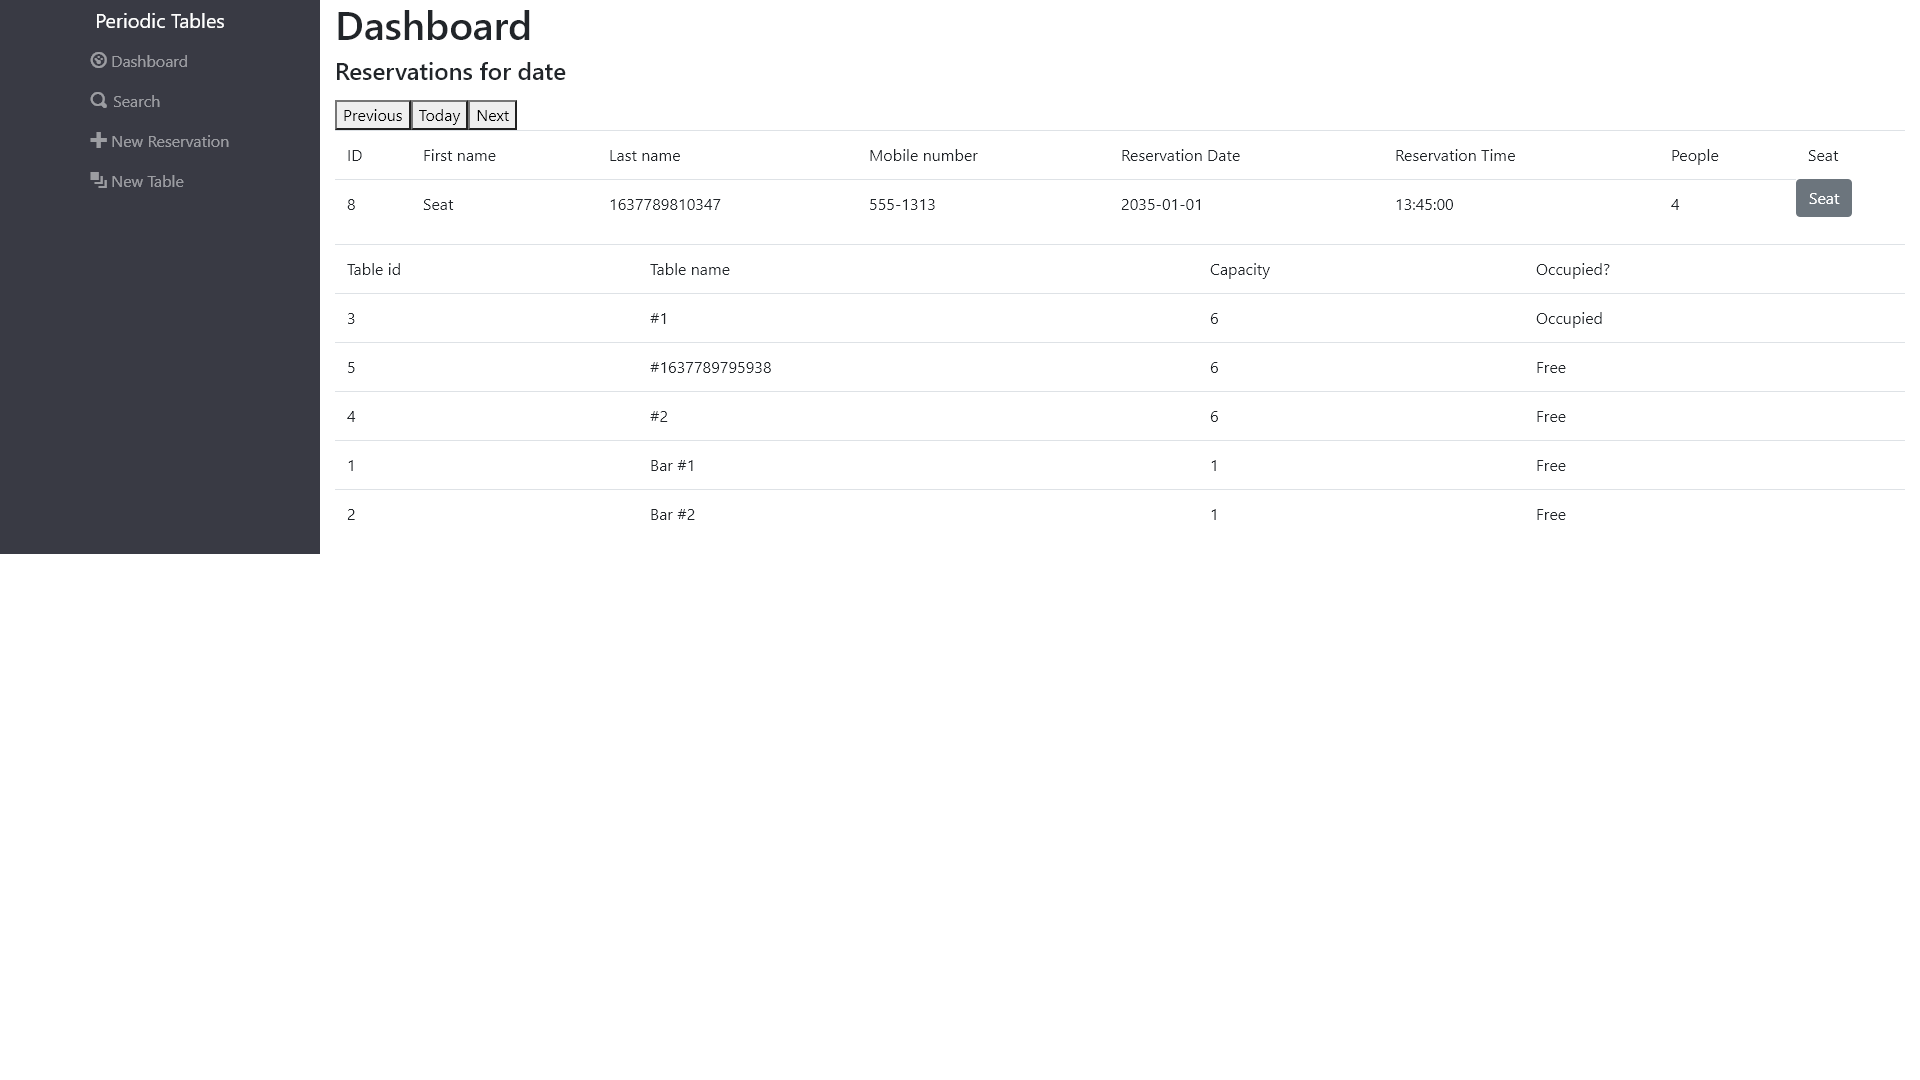
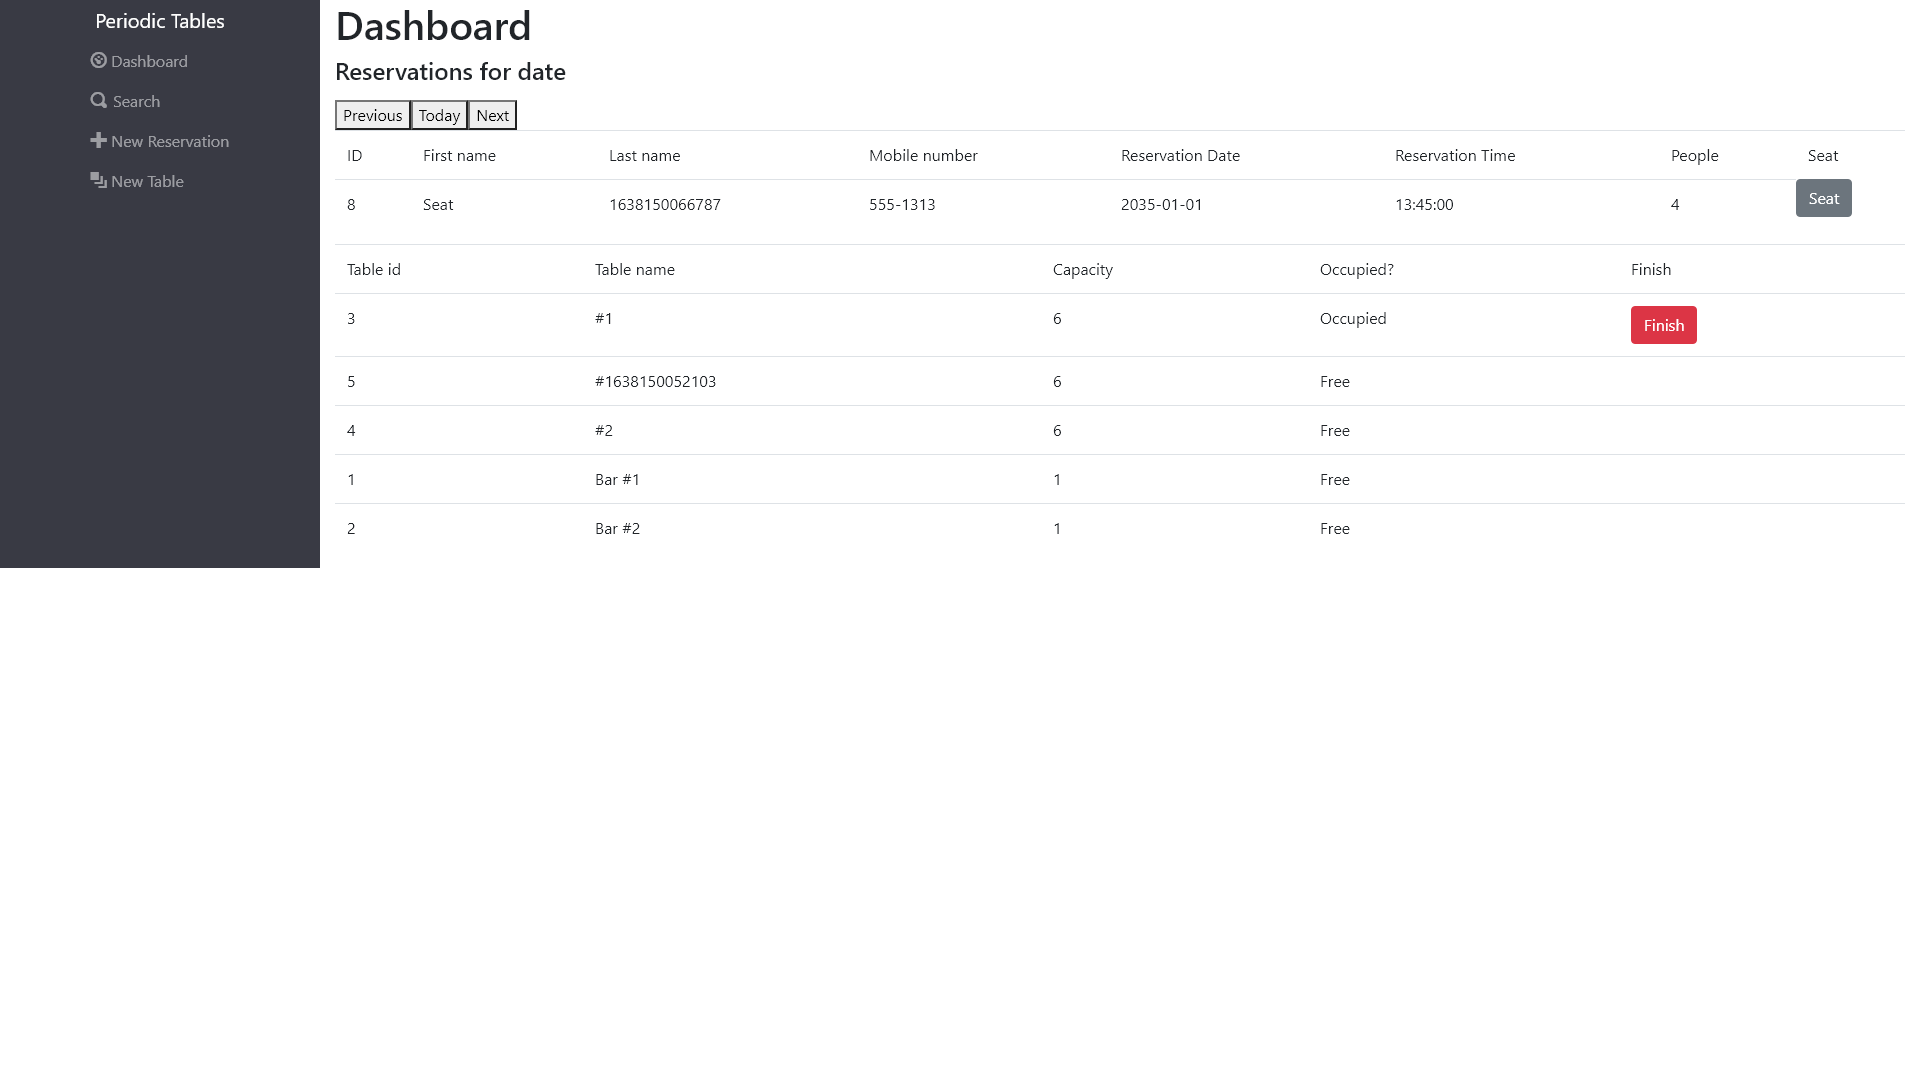
implemented user-story-05

diff --git a/front-end/src/dashboard/Dashboard.js b/front-end/src/dashboard/Dashboard.js
@@ -1,6 +1,6 @@
 import React, { useEffect, useState } from "react";
 import { Link } from 'react-router-dom';
-import { listReservations, listTables } from "../utils/api";
+import { deleteReservation, listReservations, listTables } from "../utils/api";
 import { next, previous, today } from '../utils/date-time'
 import ErrorAlert from "../layout/ErrorAlert";
 import ReservationList from "./ReservationList";
@@ -19,17 +19,35 @@ function Dashboard({ date }) {
   const [tablesError, setTablesError] = useState(null);
   // load the dashboard
   useEffect(loadDashboard, [date]);
+
   // get the list of reservations for the day and tables list
   function loadDashboard() {
-    const abortController = new AbortController();
+    const ac = new AbortController();
     setReservationsError(null);
-    listReservations({ date }, abortController.signal)
+    listReservations({ date }, ac.signal)
       .then(setReservations)
       .catch(setReservationsError);
-    listTables(abortController.signal)
-    .then(setTables)
-    .catch(setTablesError);
-    return () => abortController.abort();
+    listTables()
+      .then(setTables);
+    return () => ac.abort();
+  }
+
+  useEffect(loadTables, [setTables]);
+
+  function loadTables() {
+    const ac = new AbortController();
+    setTablesError(null);
+      listTables()
+        .then(setTables)
+        .catch(setTablesError);
+    return () => ac.abort();
+  }
+
+  function finish(table_id) {
+    const ac = new AbortController();
+    deleteReservation(table_id, ac.signal)
+    .then(loadDashboard)
+    .catch(setReservationsError);
   }
 
   return (
@@ -51,7 +69,7 @@ function Dashboard({ date }) {
         </Link>
       </nav>
       <ReservationList reservations={reservations} date={date}/>
-      <TablesList tables={tables} />
+      <TablesList tables={tables} finish={finish} />
     </main>
   );
 }

diff --git a/back-end/src/tables/tables.controller.js b/back-end/src/tables/tables.controller.js
@@ -86,6 +86,14 @@ async function validateUpdate(request, response, next) {
     next();
 }
 
+async function isNotOccupied(request, response, next) {
+    const table = response.locals.table;
+    if (!table.reservation_id) {
+        next({ status: 400, message: `Table is not occupied` });
+    }
+    next();
+}
+
 /* CRUDL functions */
 
 /**
@@ -136,6 +144,22 @@ async function update(request, response) {
 }
 
 /**
+ * Destroy function
+ *  sets reservations back to null 
+ * @param {request}
+ *  request from client
+ * @param {response}
+ *  response from the server  
+ * @returns {JSON}
+ *  a deleted status
+ */
+ async function destroy(request, response) {
+    const { table_id } = response.locals.table;
+    await tablesService.delete(table_id);
+    response.sendStatus(200);
+}
+
+/**
  * List function
  *  lists the tables in order of table name 
  * @param {request}
@@ -154,6 +178,7 @@ module.exports = {
     create: [createTableRequirements, asyncErrorBoundary(create)],
     read: [asyncErrorBoundary(tableExists), asyncErrorBoundary(read)],
     update: [asyncErrorBoundary(tableExists), asyncErrorBoundary(validateUpdate), asyncErrorBoundary(update)],
+    finish: [asyncErrorBoundary(tableExists), asyncErrorBoundary(isNotOccupied),asyncErrorBoundary(destroy)],
     list: [asyncErrorBoundary(list)],
 };
 

diff --git a/front-end/src/dashboard/Table.js b/front-end/src/dashboard/Table.js
@@ -1,3 +1,6 @@
+import { deleteReservation, listTables } from "../utils/api";
+import { useHistory } from 'react-router-dom';
+
 /**
  * 
  * @param {reservation}
@@ -5,13 +8,33 @@
  * @returns 
  *  a row with the reservation data
  */
- function Table({ table }) {
+ function Table({ table, finish }) {
+    const history = useHistory();
+    async function handleFinish(event) {
+        const result = window.confirm(`Is this table ready to seat new guests? This cannot be undone`);
+        if (result) {
+            finish(table.table_id);
+            history.push('/');
+        }
+    }
+
     return (
         <tr>
             <td>{table.table_id}</td>
             <td>{table.table_name}</td>
             <td>{table.capacity}</td>
             <td data-table-id-status={table.table_id}>{table.reservation_id ? 'Occupied' : 'Free'}</td>
+            <td>{table.reservation_id ? 
+                (
+                    <button data-table-id-finish={table.table_id} 
+                    className='btn btn-danger'
+                    onClick={handleFinish}>
+                    Finish
+                   </button>
+                ) : (
+                    ''
+                )}</td>
+           
         </tr>
     )
 }

diff --git a/front-end/src/dashboard/TablesList.js b/front-end/src/dashboard/TablesList.js
@@ -7,9 +7,10 @@ import Table from "./Table"
  * @returns {JSX.Element}
  *  a table with a list of rows
  */
-function TablesList({ tables }) {
+function TablesList({ tables, finish }) {
+
     // list out all tables
-    const list = tables.map((obj) => <Table key={obj.table_name} table={obj} />);
+    const list = tables.map((obj) => <Table key={obj.table_name} table={obj} finish={finish} />);
 
     return (
         <table className='table'>
@@ -19,6 +20,7 @@ function TablesList({ tables }) {
                     <td>Table name</td>
                     <td>Capacity</td>
                     <td>Occupied?</td>
+                    <td>Finish</td>
                 </tr>
             </thead> 
             <tbody>

diff --git a/front-end/src/utils/api.js b/front-end/src/utils/api.js
@@ -143,3 +143,18 @@ export async function createReservation(reservation, signal) {
   }; 
   return await fetchJson(url, options, {});
 }
+
+/**
+ * deletes the reservation number from the table
+ * @param {table_id} 
+ *  the table id to update
+ * @param {signal} 
+ *  a signal for if the user cancels the request
+ * @returns 
+ *  a promise that comes back resolved or with an error
+ */
+ export async function deleteReservation(table_id, signal) { 
+  const url = new URL(`${API_BASE_URL}/tables/${table_id}/seat`); 
+  const options = { method: "DELETE", signal }; 
+  return await fetchJson(url, options);
+}

diff --git a/back-end/src/tables/tables.service.js b/back-end/src/tables/tables.service.js
@@ -47,6 +47,18 @@ function update(table_id, reservation_id) {
 }
 
 /**
+ * Delete function
+ *  replaces reservation on table to null
+ * @returns {Promise<Error/any>}}
+ *  a promise that resolve to the `json` data or an error
+ */
+ function destroy(table_id){
+    return knex('tables')
+        .where({ 'table_id': table_id })
+        .update({ 'reservation_id': null });
+}
+
+/**
  * List function
  *  list of all tables by table name
  * @returns {Promise<Error/any>}}
@@ -61,5 +73,6 @@ module.exports = {
     create,
     read,
     update,
+    delete: destroy,
     list,
 };

diff --git a/back-end/src/tables/tables.router.js b/back-end/src/tables/tables.router.js
@@ -21,6 +21,7 @@ router
 router
     .route('/:table_id/seat')
     .put(controller.update)
+    .delete(controller.finish)
     .all(methodNotAllowed);
 
  module.exports = router;
